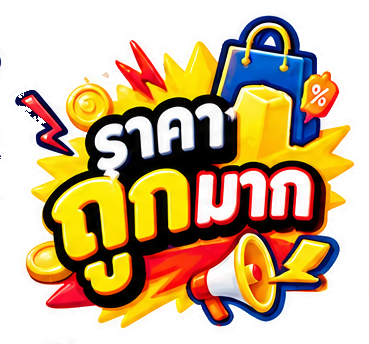
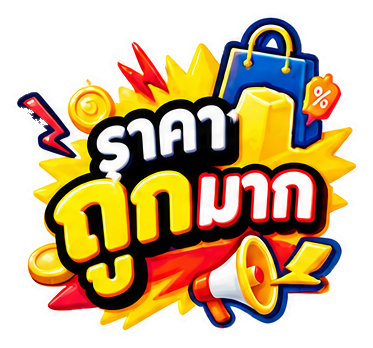
auto: claude edit rattana-price-tag.html

diff --git a/rattana-price-tag.html b/rattana-price-tag.html
@@ -6273,7 +6273,7 @@ const RT_STICKERS = [
   { id:5,  label:'โปรแรง! ช็อกราคา' }, { id:6,  label:'เฉพาะสมาชิก' }, { id:7,  label:'ลดแรงเวอร์' }, { id:8,  label:'ของดี มีคุณภาพ' },
   { id:9,  label:'ส่งไว ถึงมือคุณ' }, { id:10, label:'มีสิทธิพิเศษ' }, { id:11, label:'ช้อปเลย! (มาสคอต)' }, { id:12, label:'ติดตามโปรก่อนใคร' },
 ];
-const stickerSrc = id => `stickers/sticker-${String(id).padStart(2,'0')}.png`;
+const stickerSrc = id => `stickers/sticker-${String(id).padStart(2,'0')}.png?v=2`;   // ?v bumps when the PNGs are re-cut (cache-bust)
 let stickerState = {};   // modeKey → [ {k, sid, page, x, y, w} ]  (x,y,w = fractions of the page)
 let stickerSel = null;
 let stickerUid = 1;
